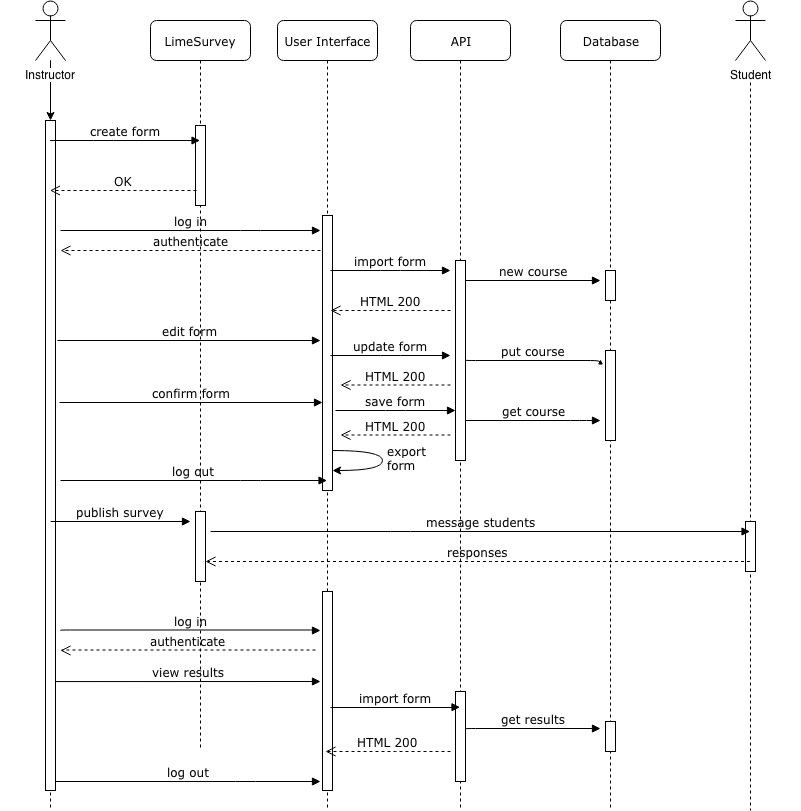
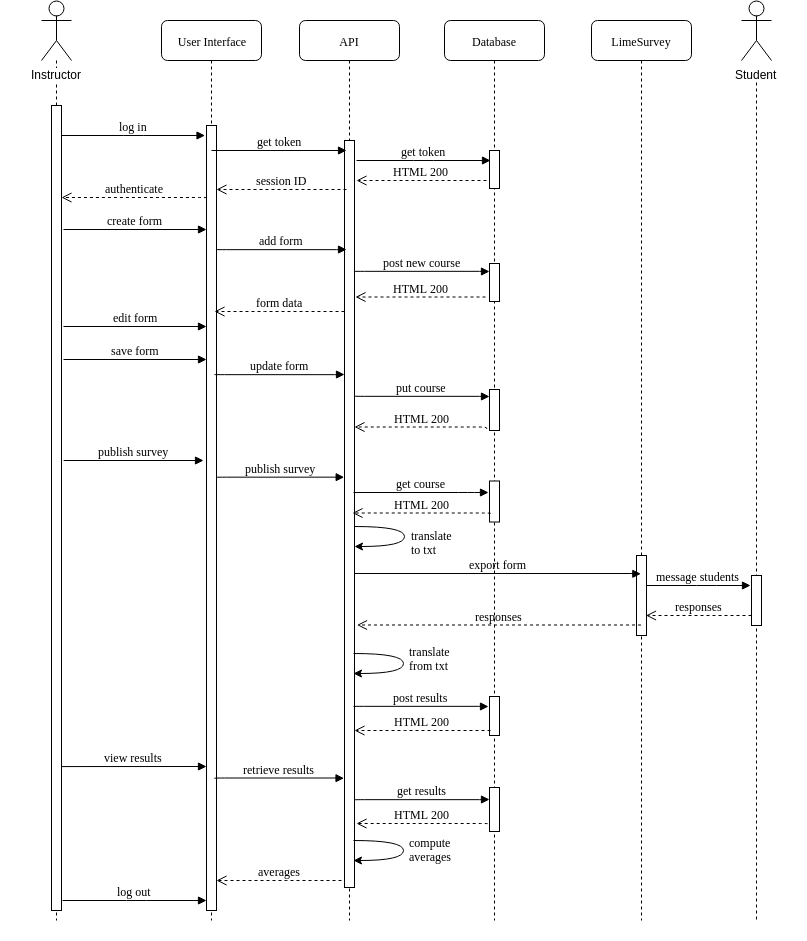
Added text to decomposition and file sections, filled requirements matrix

diff --git a/documents/sdd.tex b/documents/sdd.tex
@@ -11,7 +11,7 @@
 \vspace*{2cm}
 {\Huge System Design Document\par}
 \vspace{1cm}
-{\LARGE College Course Evaluation System\par}
+{\LARGE Course Evaluation System\par}
 \vspace{1cm}
 {\Large Client: Dr. Harlan Onsrud\par}
 \vspace{1cm}
@@ -27,7 +27,7 @@
 \newpage
 
 \begin{center}
-{\includegraphics[scale=.3]{images/team_logo.png}} \\ 	\bigskip
+{\includegraphics[scale=.2]{images/team_logo.png}} \\ 	\bigskip
 {\LARGE College Course Evaluation System } \\ \medskip
 {\large System Design Document } \\ \medskip
 \end{center}
@@ -39,7 +39,7 @@
 \section{Introduction}
 \subsection{Purpose of This Document}
 
-This system design document gives an overview of the structure of our college course evaluation system. The first section describes the system architecture, how the components function, and how the components relate to each other. The second section covers the design of the data, detailing the database schema and the properties of the files that interact with the system. The document's third section has a table that lists the requirements fulfilled for each system component.
+This system design document gives an overview of the structure of our course evaluation system. The first section describes the system architecture, how the components function, and how the components relate to each other. The second section covers the design of the data, detailing the database schema and the properties of the files that are used by the system. The document's third section has a table that lists the components that fulfill each functional requirement.
 
 This document is intended for the development team, the product client, Dr. Harlan Onsrud, and potential users of the system. Team EVAL needs this document to ensure that the product works as intended. Dr. Onsrud needs it to know that the program that he desires will be fully realized. The document also helps the software's users in that they can learn more about the functions and architecture of the evaluation system.
 
@@ -56,8 +56,10 @@ Addison-Wesley.
 \section{System Architecture}
 \subsection{Architectural Design}
 
-The first diagram is an abstraction of the proposed system architecture. With this figure, we aim to communicate what components are in the system and the services/APIs that link the components together.
+The first diagram is an abstraction of the proposed system architecture. With this figure, we aim to communicate what components are in the system and the API that links the components together.
+
 \begin{center}
+\captionof{figure}{}
 {\includegraphics[scale=.7]{images/component_diagram.png}} 
 \end{center}
 
@@ -68,40 +70,44 @@ DESCRIBE ARCHITECTURE. - STAN
 
 \subsection{Decomposition Description}
 
-The next diagram abstracts the functions and files that are expected to be in the system. This decomposition diagram communicates a more detailed view of each object and its relationships.
+The next diagram abstracts the major functions that are expected to be in the system. This sequence diagram illustrates a typical session and is meant to communicate a more detailed view of the components and their relationships. The ``Database'' refers to the back-end database.
 
-DECOMPOSITION DIAGRAM
 \begin{center}
-{\includegraphics[scale=.5]{images/sequence_diagram.png}} 
+\captionof{figure}{}
+{\includegraphics[scale=.7]{images/sequence_diagram.png}} 
 \end{center}
 
+To begin using the course evaluation system, the instructor must first log in with a username and password (``log in''). The API retrieves the user's token from the database to confirm that the password is correct (``get token'', ``authenticate''). Next, the instructor creates an evaluation form to send to students (``create form''). The API adds an empty course to the database (``add form'', ``post new course''). The instructor then edits the survey with the appropriate info and saves the form (``edit form'', ``save form''). Upon saving, the API updates the database with the entered information (``update form'', ``put course'').
 
-DESCRIBE EACH COMPONENT.
+With an evaluation form completed, the instructor can then publish it online (``publish survey''). The API retrieves the course information from the database to translate the survey form into a tab-separated .txt file (``get course'', ``translate to txt''). It then sends the .txt file to LimeSurvey and tells the survey software to message the students through e-mail (``export form'', ``message students''). The API retrieves the students' responses, translates them from another tab-separated .txt file, and stores them into the database (``translate from txt'', ``post results''). Finally, the instructor can view the survey results, with the help of the API getting the results from the database and finding their averages (``retrieve results'', ``get results'', ``compute averages'').
 
 \newpage
 
 \section{Persistent Data Design}
 \subsection{Database Descriptions}
 
-Our database will include multiple tables that store information about a school, its classes, and its survey questions. A diagram of the database schema is shown below:
+Our database will include tables that store information about courses, survey questions, and survey responses. A diagram of the database schema is shown below:
 
 \begin{center}
 \captionof{figure}{}
 {\includegraphics[scale=.5]{images/schema_diagram.png}} 
 \end{center}
-The database contains 4 main tables and two relationship tables. The \textbf{Surveys} table contains the survey id along with the survey url (the same as in LimeSurvey) and an associated instructor id. The \textbf{Instructors} table contains the name of the instructor along with an authentication token generated by Google OAuth. The \textbf{Tags} table contains tags asssociated with one or more survey. These tags are used to categorize and search surveys. Finally, the \textbf{Questions} table contains all questions to be entered into the surveys, along with help-text and the type of question. 
+
+The database contains six object tables and two relationship tables. The \textbf{Survey} table contains survey IDs, the surveys' URLs (generated by LimeSurvey) and associated instructor IDs. The e-mail addresses to send the surveys to are stored in the \textbf{E-mail} table. The \textbf{Instructor} table contains the names of the instructors along with authentication tokens generated by Google OAuth. The \textbf{Tag} table contains additional information (e.g. course names) about the surveys. These tags are used to categorize and search surveys. The \textbf{Question} table contains all questions to be entered into the surveys, along with help text and the type of question. The \textbf{Response} table includes students' responses to certain questions. The relationship tables, \textbf{Survey-to-Question} and \textbf{Survey-to-Tag}, link the surveys to their appropriate questions and tags.
 
 \subsection{File Descriptions}
 
-The system requires several files, most of which are scripts and survey data, to run as intended. A file structure diagram is given below:
+The system requires several pieces of data, including database files, front-end markup, and LimeSurvey files, to run as intended. A file structure diagram is given below:
 
 FILE STRUCTURE DIAGRAM - STAN
 
-DESCRIBE FILES. - STAN
+Files are stored in the back-end database to keep track of all course information, survey forms, and survey responses that users have input. The schema above shows how the files' data is to be organized. To reduce the risk of a breach, any data present in the database for 60 days gets removed by the system. There are also mark-up files, which specify the look and feel of the front end. These are static and permanent, and thus do not require maintenance.
+
+Lastly, the system briefly stores LimeSurvey files in the form of tab-separated text documents. They either contain survey form data or student responses. The form data files are deleted immediately after they are sent to students, and the response data files are deleted immediately after they are stored in the database.
 
 \section{Requirements Matrix}
 
-The following table lists the components in our system that meet each functional requirement given in the system requirements specification:
+The following table lists the functions in our system, as shown in the sequence diagram, that meet each functional requirement given in the system requirements specification:
 
 \begin{center}
 \captionof{table}{}
@@ -109,19 +115,19 @@ The following table lists the components in our system that meet each functional
 \hline
 \textbf{Use Case Number} & \textbf{Use Case Name} & \textbf{System Component(s)} \\
 \hline
-1 & Log on to system & \\ 
+1 & Log on to system & log in, get token\\ 
 \hline
-2 & Create course & \\ 
+2 & Create course & create form, add form, post new course\\ 
 \hline
-3 & Select course & \\ 
+3 & Edit course info & edit form\\ 
 \hline
-4 & Edit course info & \\ 
+4 & Save course info & save form, update form, put course\\ 
 \hline
-5 & Publish survey & \\ 
+5 & Publish survey & publish survey, get course, translate to txt\\ 
 \hline
-6 & Notify students & \\ 
+6 & Notify students & export form, message students\\ 
 \hline
-7 & View survey results & \\ 
+7 & View survey results & view results, retrieve results, get results, compute averages\\ 
 \hline
 \end{tabular}
 \end{center}
